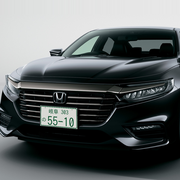
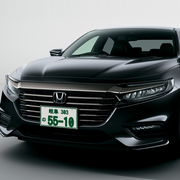
アイコンのナンバーの文字を太くした
Claude-Session: https://claude.ai/code/session_01EAbkc7XyZiB4Bay8Lf2K5R

Changed region(s): [[0.2222, 0.5833, 0.4444, 0.7222]]

diff --git a/index.html b/index.html
@@ -10,7 +10,7 @@
   <meta name="theme-color" content="#0b1220">
   <title>マイカー点検</title>
   <link rel="manifest" href="manifest.webmanifest">
-  <link rel="apple-touch-icon" href="icons/icon-180.png?v=2">
+  <link rel="apple-touch-icon" href="icons/icon-180.png?v=3">
   <link rel="stylesheet" href="style.css">
   <script type="importmap">
     { "imports": { "three": "./vendor/three.module.min.js", "three/addons/": "./vendor/addons/" } }

diff --git a/sw.js b/sw.js
@@ -1,6 +1,6 @@
 // Network-first cache for the app shell so the app opens offline.
 // Spreadsheet requests (other origins) are never cached here; the app keeps its own copy.
-const CACHE = 'carapp-v5';
+const CACHE = 'carapp-v6';
 const SHELL = [
   './', 'index.html', 'style.css', 'manifest.webmanifest',
   'js/app.js', 'js/car.js', 'js/body.js', 'js/sheet.js', 'js/demo.js',
